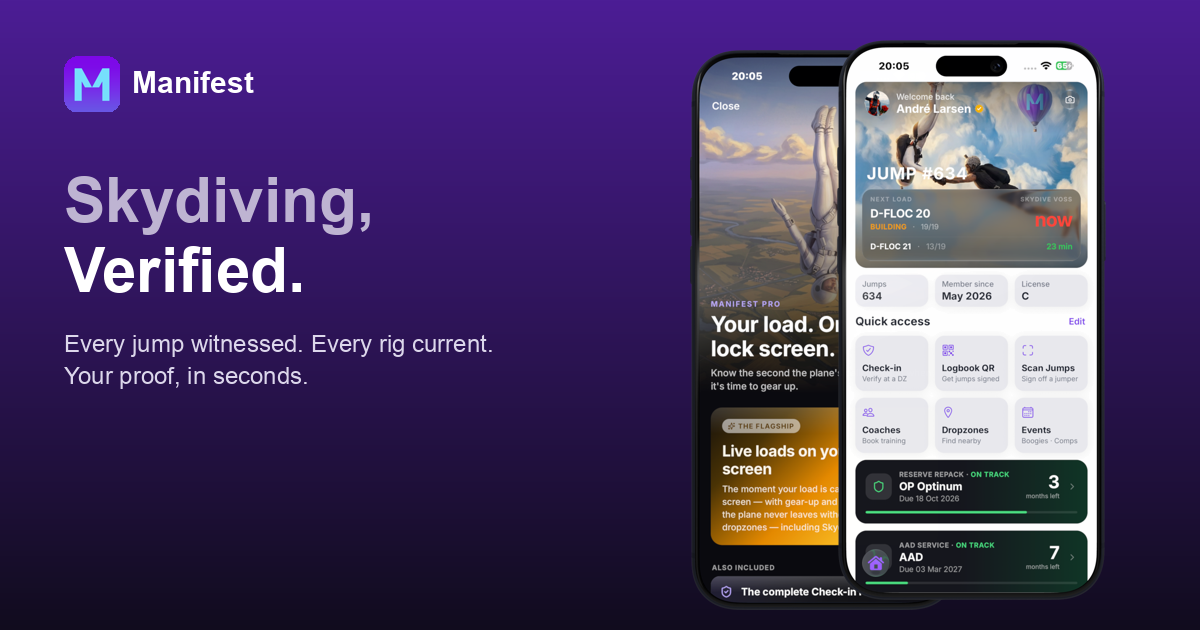
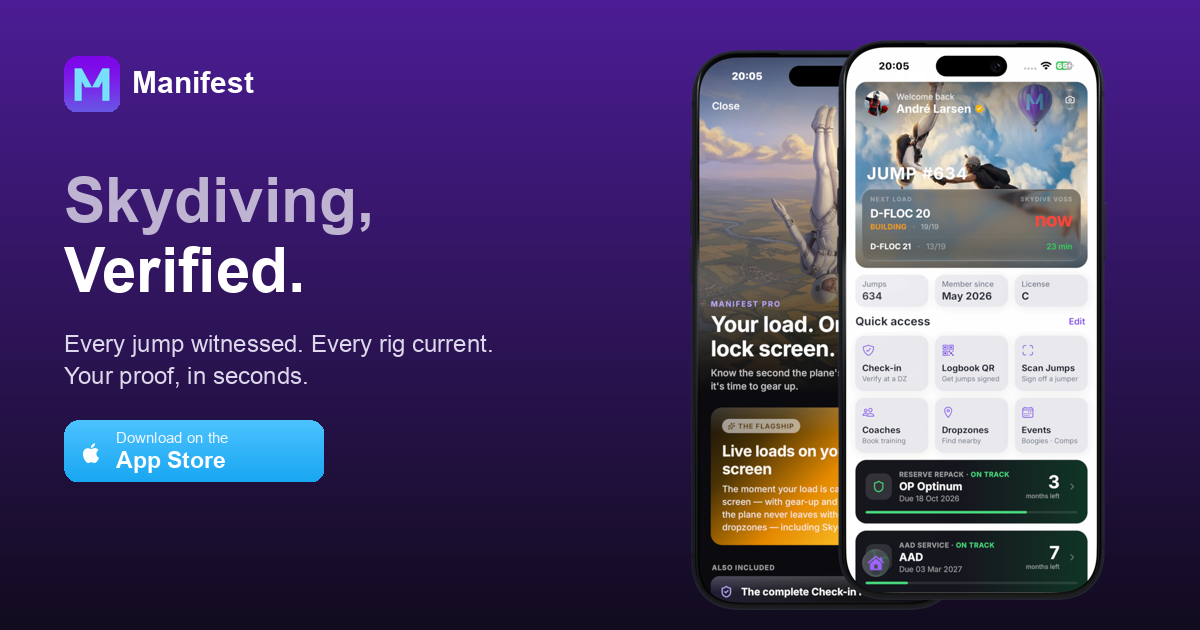
og-image: add the App Store badge
The card showed the product but never said how to get it. Added the same
sky-blue "Download on the App Store" badge used on the site, with the real
Apple glyph, so a link preview carries the call to action on its own — most
people who see this in a DM decide from the card before they ever tap through.

Bumped to v=5 to bust preview-scraper caches again.

Changed region(s): [[0.0308, 0.6635, 0.2775, 0.7841]]

diff --git a/index.html b/index.html
@@ -11,14 +11,14 @@
 <meta property="og:description" content="Every jump witnessed. Every rig current. Your proof, in seconds. Free on the App Store." />
 <meta property="og:type" content="website" />
 <meta property="og:url" content="https://www.jumpmanifest.com/" />
-<meta property="og:image" content="https://www.jumpmanifest.com/assets/og-image.png?v=4" />
+<meta property="og:image" content="https://www.jumpmanifest.com/assets/og-image.png?v=5" />
 <meta property="og:image:width" content="1200" />
 <meta property="og:image:height" content="630" />
 <meta property="og:image:alt" content="Manifest — Skydiving, Verified" />
 <meta name="twitter:card" content="summary_large_image" />
 <meta name="twitter:title" content="Manifest — Skydiving, Verified" />
 <meta name="twitter:description" content="Every jump witnessed. Every rig current. Your proof, in seconds." />
-<meta name="twitter:image" content="https://www.jumpmanifest.com/assets/og-image.png?v=4" />
+<meta name="twitter:image" content="https://www.jumpmanifest.com/assets/og-image.png?v=5" />
 <meta name="theme-color" content="#ffffff" />
 <!-- Apple Smart App Banner. iOS renders this itself, above the page, and the
      handoff to the App Store is handled by the OS rather than by a link in the
